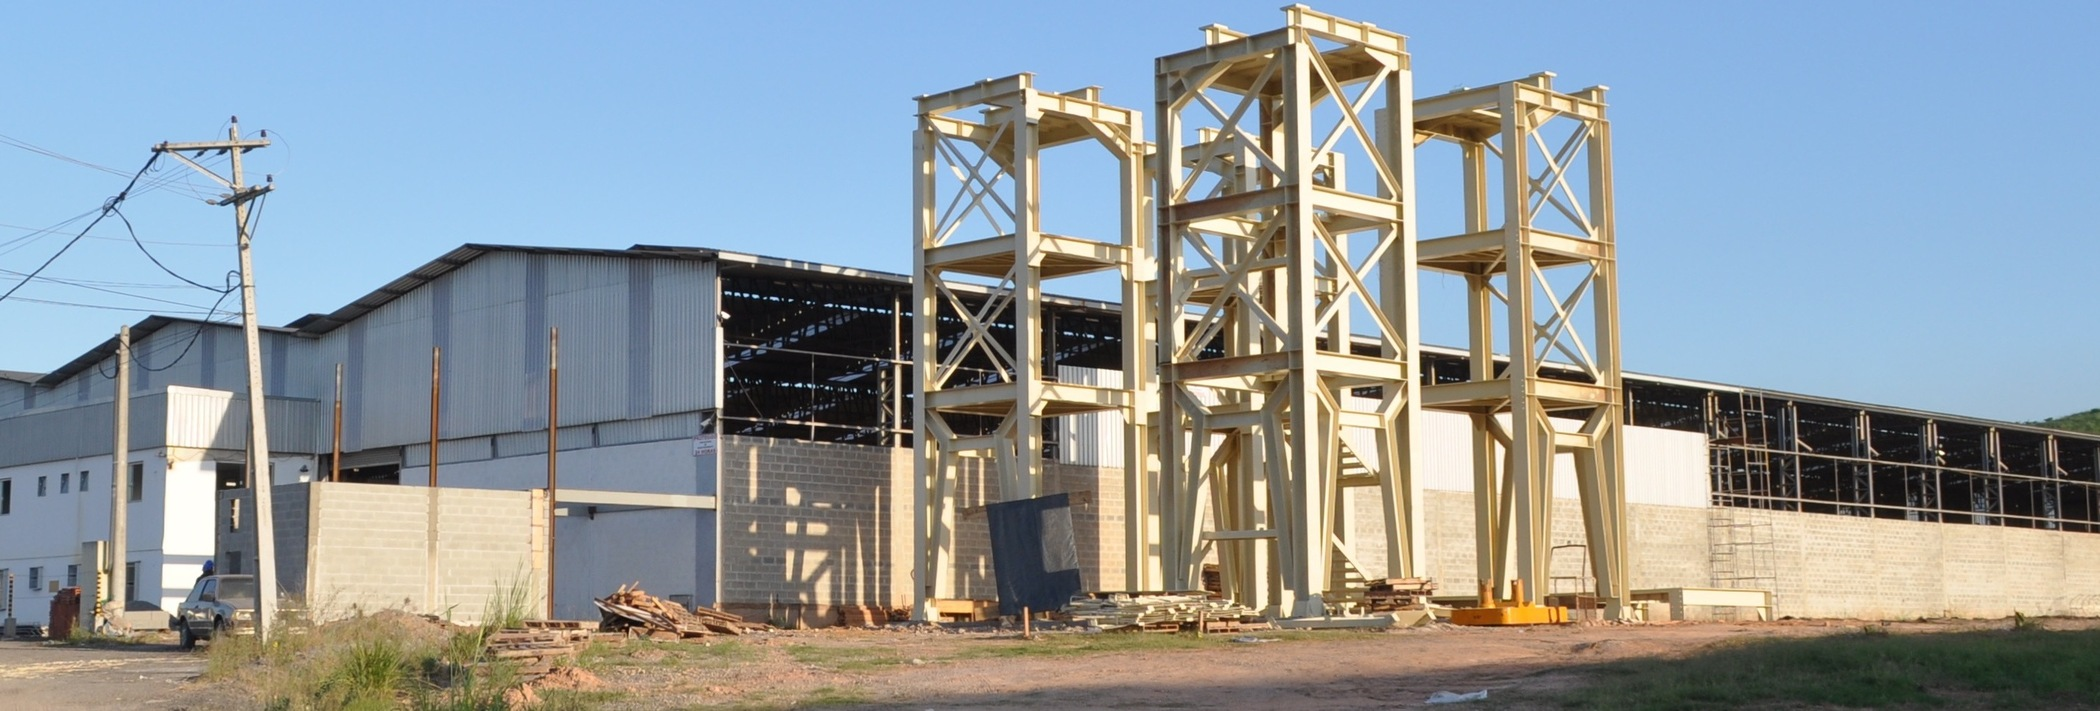
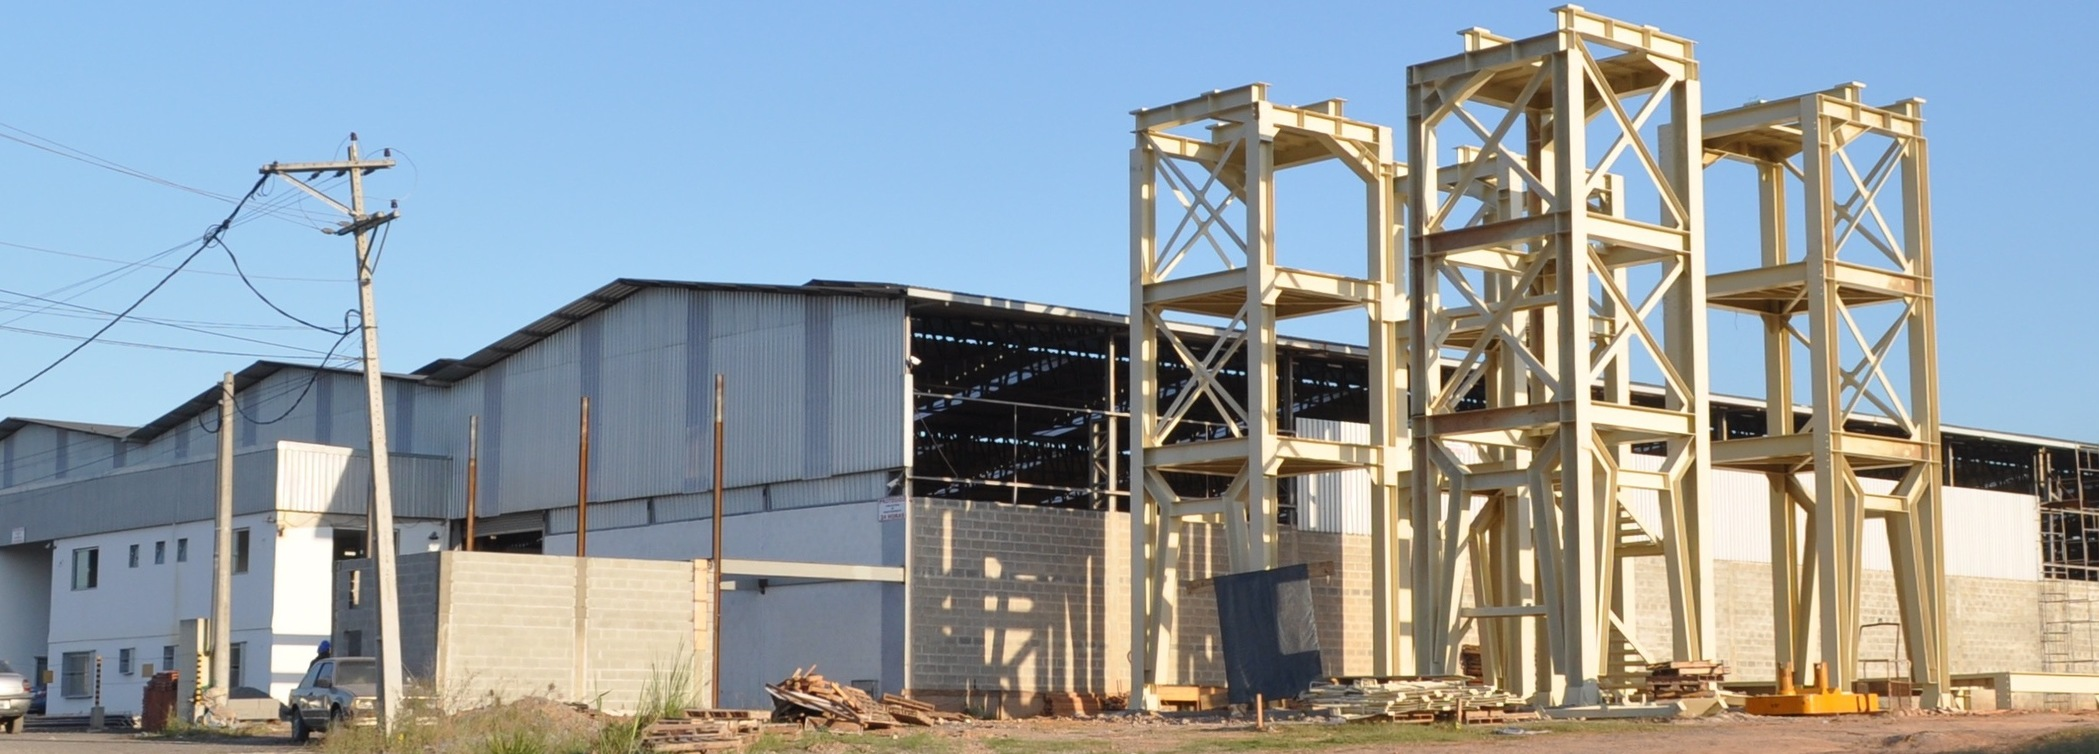
fotos carousel mexendo

diff --git a/assets/css/style.css b/assets/css/style.css
@@ -364,7 +364,7 @@ h1, h2, h3, h4, h5, h6 {
 --------------------------------------------------------------*/
 #hero {
   width: 100%;
-  height: 60vh;
+  height: 90vh;
   background-color: rgba(59, 59, 59, 0.8);
   overflow: hidden;
   padding: 0;
@@ -375,7 +375,7 @@ h1, h2, h3, h4, h5, h6 {
 
 #hero .carousel-item {
   width: 100%;
-  height: 80vh;
+  height: 90vh;
   background-size: 100%;
   background-position: center;
   background-repeat: no-repeat;
